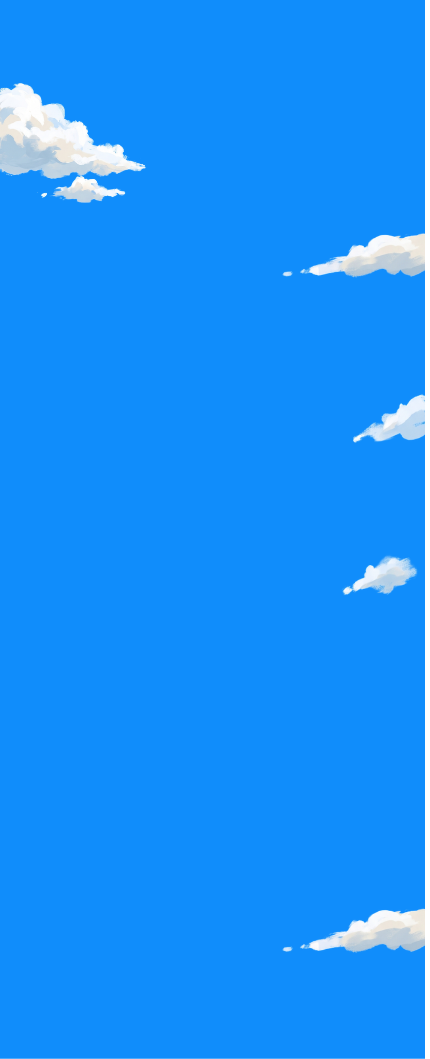
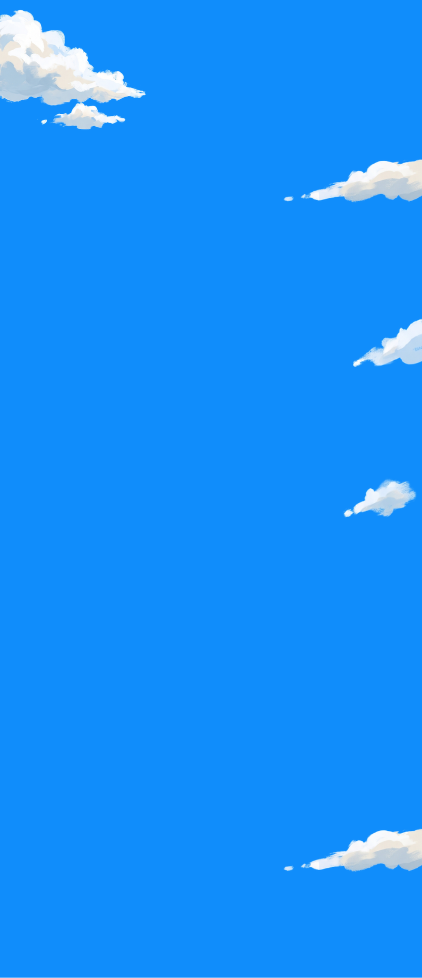
feat: GIF animados en itinerario Oliva con filtro verde, fondo-cielo-2 actualizado

Changed region(s): [[0.7085, 0.0, 1.0, 1.0], [0.0, 0.0, 0.3389, 0.2147], [0.6469, 0.8896, 0.6777, 0.9202]]

diff --git a/app/components/oliva/InvitationOliva.tsx b/app/components/oliva/InvitationOliva.tsx
@@ -43,11 +43,17 @@ const HORA = "4:00 PM";
 const WHATSAPP = "51993092110";
 
 const ITINERARIO = [
-  { file: "icono-anillos.png", hora: "4:00pm", nombre: "Ceremonia", Icon: Sparkles },
-  { file: "icono-copas.png", hora: "4:30pm", nombre: "Hora del brindis", Icon: Wine },
-  { file: "icono-plato.png", hora: "5:00pm", nombre: "Hora de la comida", Icon: UtensilsCrossed },
-  { file: "icono-baile.png", hora: "6:00pm", nombre: "Baile", Icon: Music },
+  { file: "icono-anillos.png", hora: "4:00pm", nombre: "Ceremonia", Icon: Sparkles, gif: false },
+  { file: "it-brindis.gif", hora: "4:30pm", nombre: "Hora del brindis", Icon: Wine, gif: true },
+  { file: "it-comida.gif", hora: "5:00pm", nombre: "Hora de la comida", Icon: UtensilsCrossed, gif: true },
+  { file: "it-celebracion.gif", hora: "6:00pm", nombre: "Baile", Icon: Music, gif: true },
 ];
+
+// Tiñe los GIF del itinerario de #456b3e. Los GIF tienen trazo gris, no negro:
+// brightness(0) los lleva primero a negro, que es de donde parte el resto del
+// filtro. icono-anillos.png ya viene verde y no lo lleva.
+const GIF_FILTER =
+  "brightness(0) saturate(100%) invert(37%) sepia(28%) saturate(534%) hue-rotate(74deg) brightness(89%) contrast(89%)";
 
 const COLORES = [
   { hex: "#1a2744", nombre: "Midnight Navy" },
@@ -247,7 +253,7 @@ function PortadaSection({ demo, photosPath }: { demo: boolean; photosPath: strin
             position: "absolute",
             zIndex: 2,
             bottom: 0,
-            left: "35%",
+            left: "45%",
             transform: "translateX(-50%)",
             width: "60%",
             maxWidth: 260,
@@ -493,7 +499,7 @@ function ItinerarioSection({ photosPath }: { photosPath: string }) {
               flexDirection: "column",
             }}
           >
-            {ITINERARIO.map(({ file, hora, nombre, Icon }) => (
+            {ITINERARIO.map(({ file, hora, nombre, Icon, gif }) => (
               <li
                 key={file}
                 style={{
@@ -507,7 +513,13 @@ function ItinerarioSection({ photosPath }: { photosPath: string }) {
                   photosPath={photosPath}
                   file={file}
                   alt=""
-                  style={{ width: 70, height: 70, objectFit: "contain", flexShrink: 0 }}
+                  style={{
+                    width: 70,
+                    height: 70,
+                    objectFit: "contain",
+                    flexShrink: 0,
+                    filter: gif ? GIF_FILTER : undefined,
+                  }}
                   fallback={
                     <span
                       style={{
